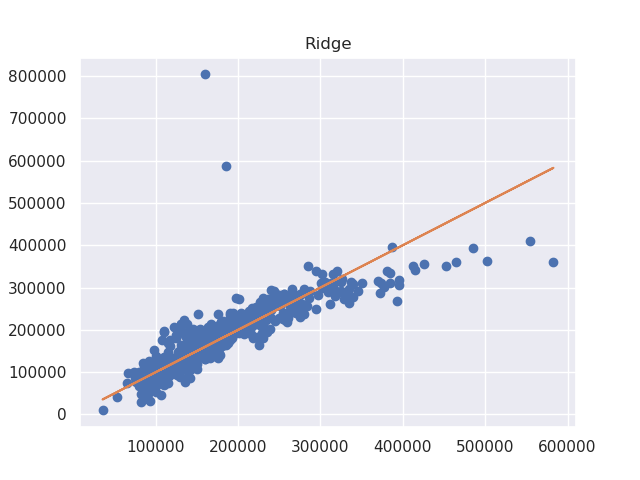
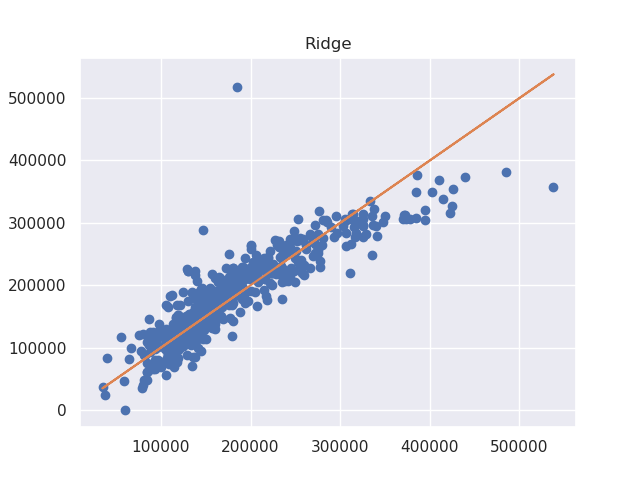
Add tree models

diff --git a/ML/sklearn/regression.py b/ML/sklearn/regression.py
@@ -4,6 +4,7 @@ import numpy as np
 import matplotlib.pyplot as plt
 import seaborn as sns
 import pandas as pd
+from sklearn.metrics import mean_squared_error
 from sklearn.model_selection import train_test_split
 from sklearn.preprocessing import StandardScaler
 from sklearn.preprocessing import PolynomialFeatures
@@ -11,6 +12,8 @@ from sklearn.pipeline import Pipeline
 from sklearn.linear_model import LinearRegression
 from sklearn.linear_model import SGDRegressor
 from sklearn.linear_model import Ridge
+from sklearn.tree import DecisionTreeRegressor
+from sklearn.ensemble import RandomForestRegressor
 
 # use sns style
 sns.set()
@@ -36,7 +39,7 @@ scaler = StandardScaler()
 X = scaler.fit_transform(X)
 
 # split data
-X_train, X_test, y_train, y_test = train_test_split(X, y, test_size=0.4)
+X_train, X_test, y_train, y_test = train_test_split(X, y, test_size=0.4, random_state=99)
 
 # Linear Model
 lin_reg_model = LinearRegression()
@@ -76,7 +79,7 @@ plt.savefig('images/Ridge.png')
 
 # Polynomial Regression
 poly_model = Pipeline([('poly', PolynomialFeatures(degree=2)),
-                       ('linear', LinearRegression(fit_intercept=False))])
+                       ('ridge', Ridge(alpha=0.1))])
 poly_model.fit(X_train,y_train)
 
 y_poly = poly_model.predict(X_test)
@@ -86,6 +89,32 @@ plt.plot(y_test, y_poly,'o')
 plt.plot(y_test, y_test,'-')
 plt.title('PolynomialRegression')
 plt.savefig('images/PolynomialRegression.png')
+
+# Decision Tree
+dcr_model = DecisionTreeRegressor()
+dcr_model.fit(X_train, y_train)
+
+y_dcr = dcr_model.predict(X_test)
+
+plt.figure(5)
+plt.plot(y_test, y_dcr,'o')
+plt.plot(y_test, y_test,'-')
+plt.title('DecisionTreeRegressor')
+plt.savefig('images/DecisionTreeRegressor.png')
+
+# Random Forest
+rfr_model = RandomForestRegressor()
+rfr_model.fit(X_train, y_train)
+
+y_rfr = rfr_model.predict(X_test)
+mse_rfr = mean_squared_error(y_test, y_rfr)
+
+plt.figure(6)
+plt.plot(y_test, y_rfr,'o', label="MSE = %e" % mse_rfr)
+plt.plot(y_test, y_test,'-')
+plt.title('RandomForestRegressor')
+plt.legend()
+plt.savefig('images/RandomForestRegressor.png')
 
 
 plt.show()
